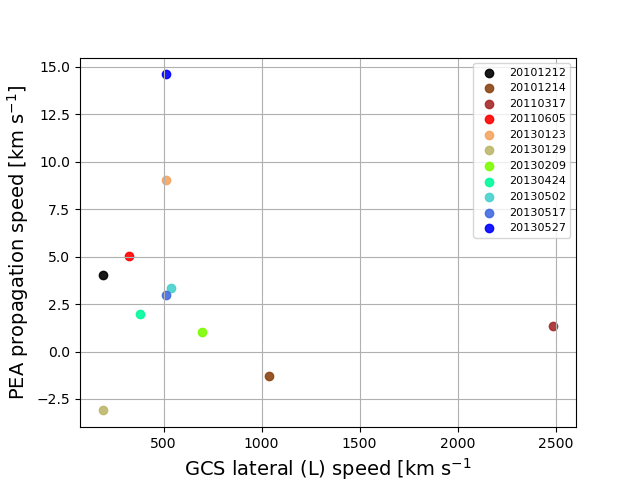
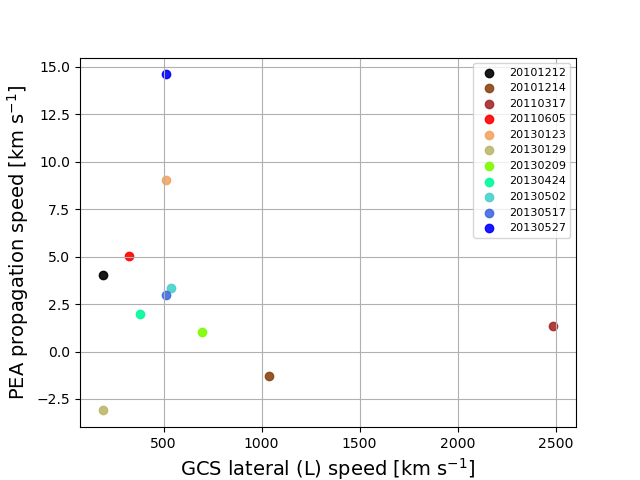
Hebe fixed plots

Changed region(s): [[0.2812, 0.9375, 0.75, 1.0]]

diff --git a/tools/cremades/compare_all_prop_hebe.py b/tools/cremades/compare_all_prop_hebe.py
@@ -412,7 +412,7 @@ if pea_prop_speed_vs_gcs_lat_speed:
 
     fig,ax = plt.subplots()
     #ejes y titulo
-    ax.set_xlabel('GCS lateral (L) speed [km s$^{-1}$', fontsize=14)
+    ax.set_xlabel('GCS lateral (L) speed [km s$^{-1}$]', fontsize=14)
     ax.set_ylabel('PEA propagation speed [km s$^{-1}$]', fontsize=14)
     #ax.set_title('Title', fontsize=18)
     for contador in range(len(all_x_filtered)):
@@ -466,7 +466,7 @@ if pea_sep_speed_vs_gcs_awd:
 
     fig,ax = plt.subplots()
     #ejes y titulo
-    ax.set_xlabel('GCS AW$_D$', fontsize=14)
+    ax.set_xlabel('GCS AW$_D$ -nuevo', fontsize=14)
     ax.set_ylabel('PEA separation speed [km s$^{-1}$]', fontsize=14)
     ax.set_title('', fontsize=18)
     for contador in range(len(all_x_filtered)):
@@ -520,7 +520,7 @@ if pea_sep_speed_vs_gcs_axial_speed:
 
     fig,ax = plt.subplots()
     #ejes y titulo
-    ax.set_xlabel('GCS axial speed [km s$^{-1}$', fontsize=14)
+    ax.set_xlabel('GCS axial speed [km s$^{-1}$]', fontsize=14)
     ax.set_ylabel('PEA separation speed [km s$^{-1}$]', fontsize=14)
     ax.set_title('', fontsize=18)
     for contador in range(len(all_x_filtered)):
@@ -574,7 +574,7 @@ if pea_length_vs_gcs_lat_speed:
 
     fig,ax = plt.subplots()
     #ejes y titulo
-    ax.set_xlabel('GCS axial speed [km s$^{-1}$', fontsize=14)
+    ax.set_xlabel('GCS axial speed [km s$^{-1}]$', fontsize=14)
     ax.set_ylabel('PEA separation speed [km s$^{-1}$]', fontsize=14)
     ax.set_title('', fontsize=18)
     for contador in range(len(all_x_filtered)):
